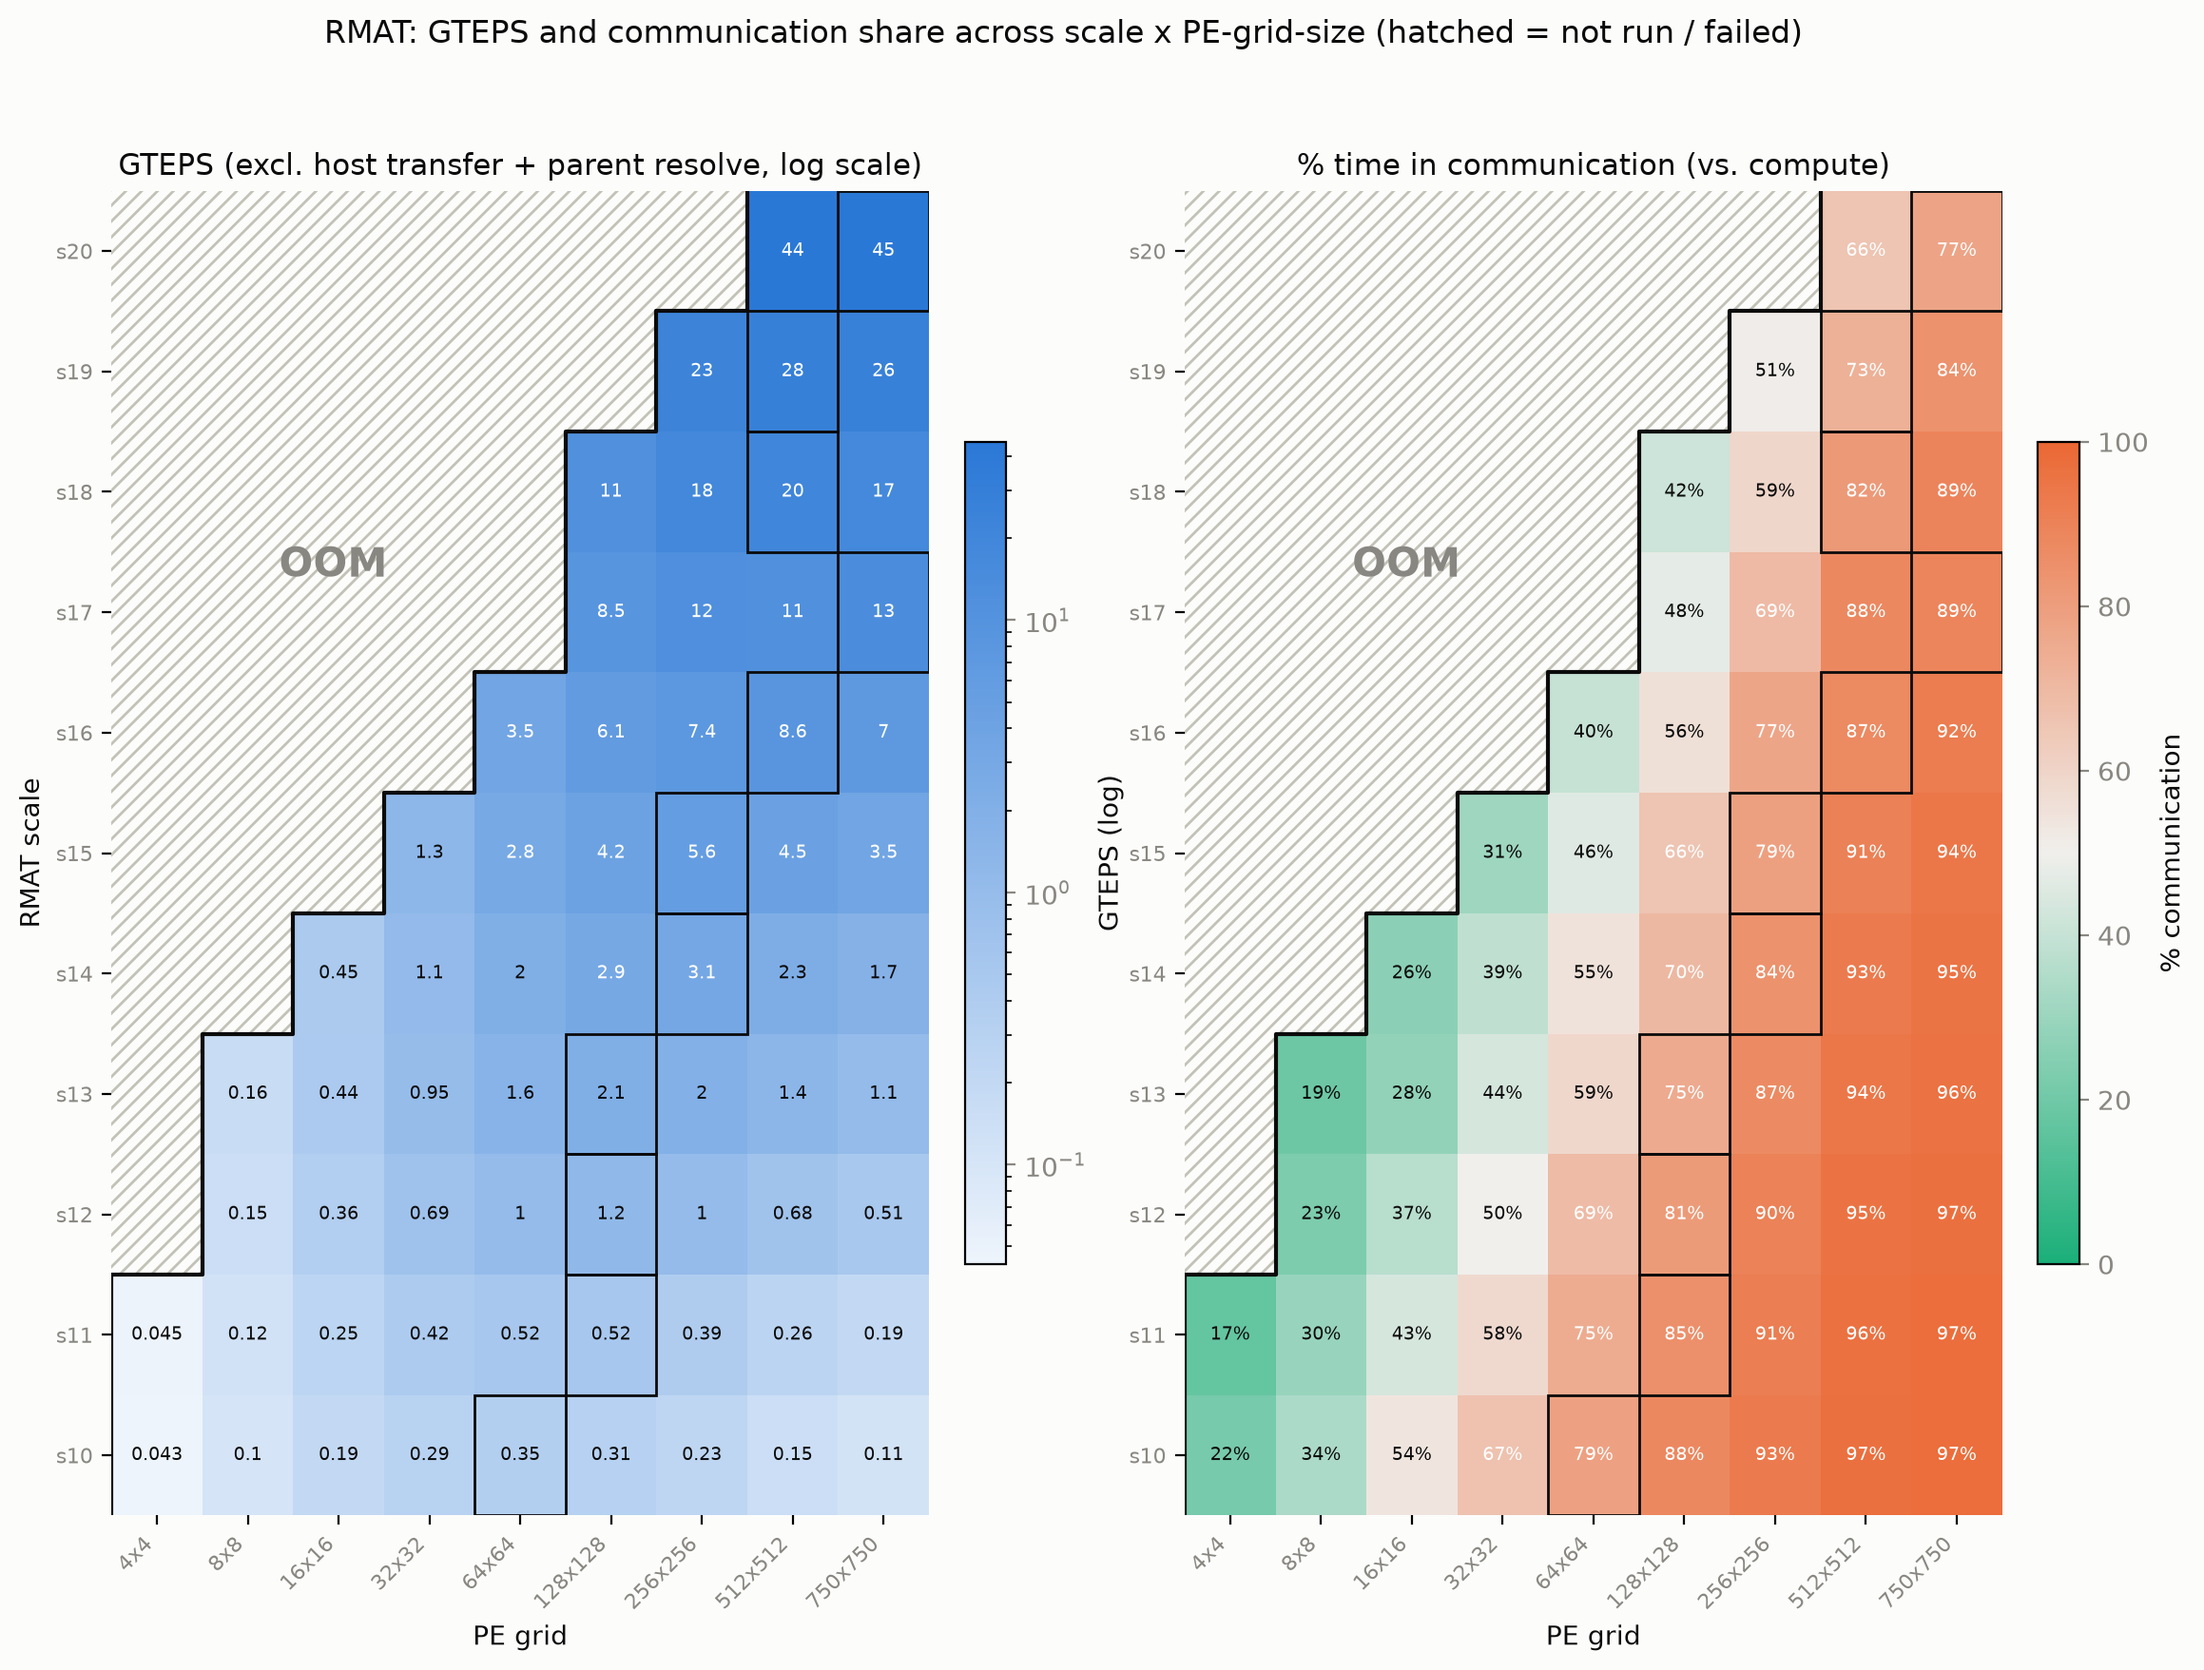
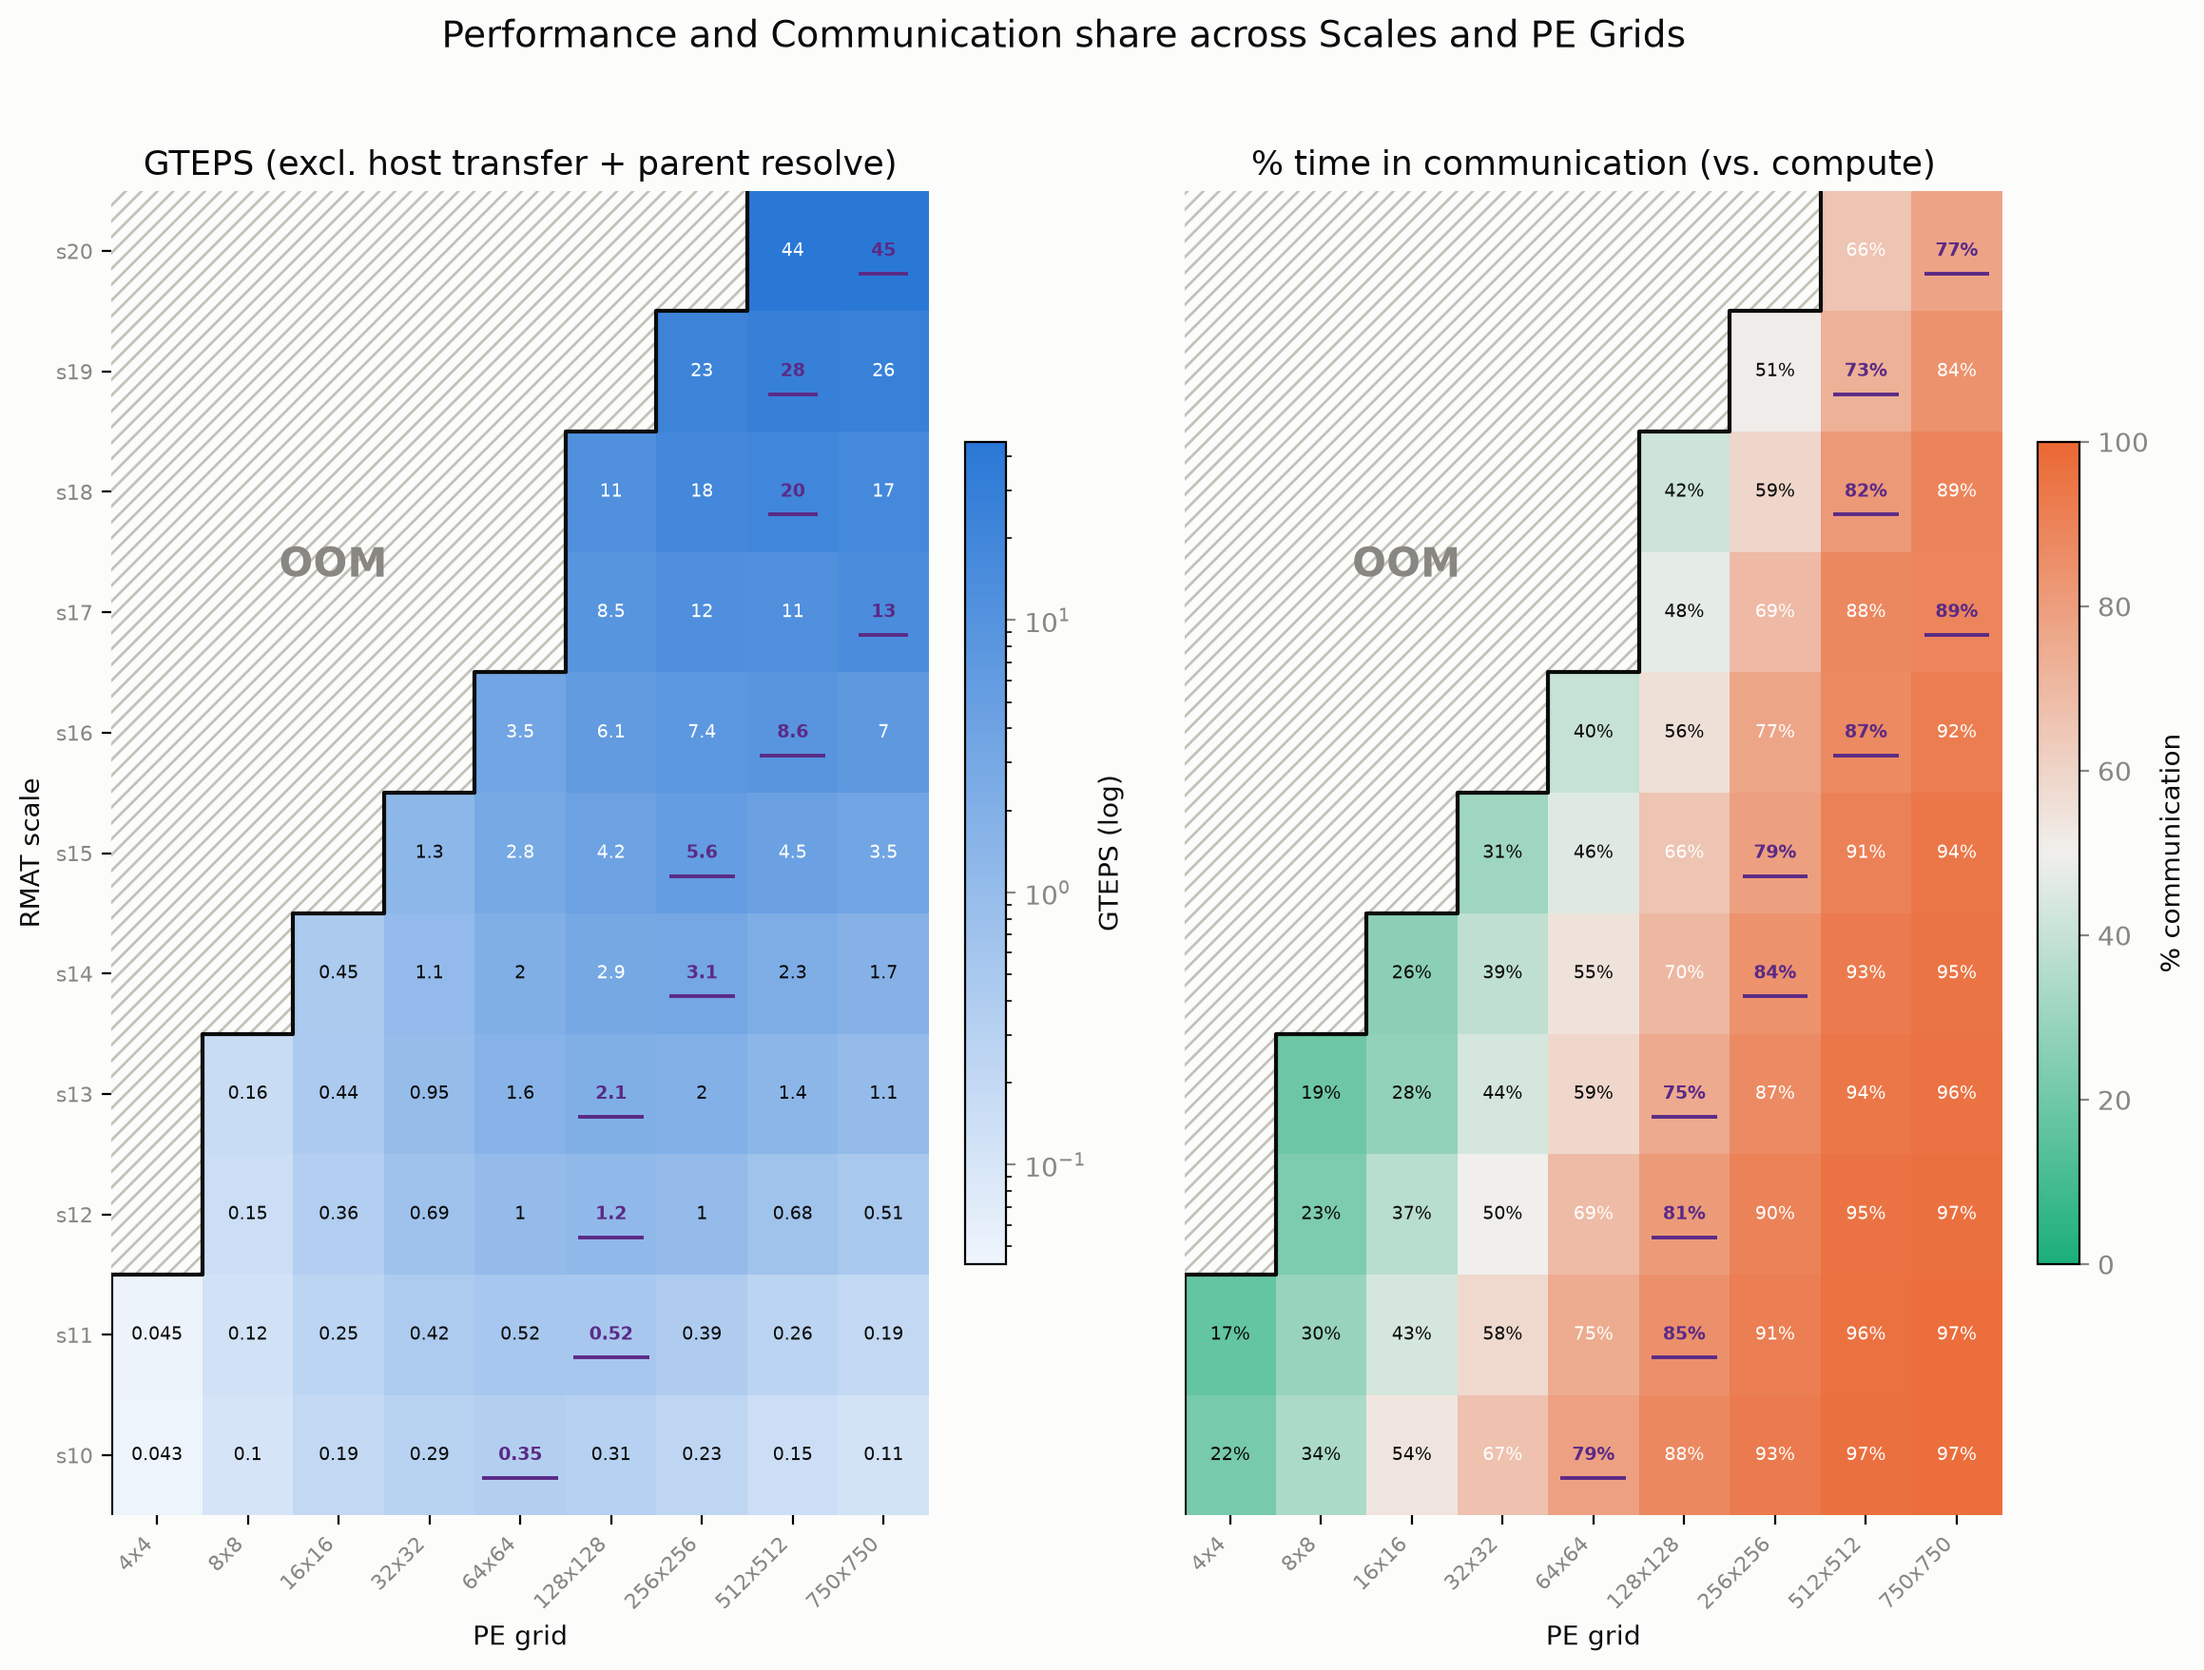
[polish] restyle best-per-row callout and titles on the grid-scale heatmap
Replace the thin box outline marking each row's best-GTEPS cell with bold,
underlined text in a single dark violet -- distinct from every hue already
used across both panels (blue, orange, aqua, gray) and legible against both
the lightest and darkest cells without needing an outline/stroke effect
(tried a red+white-stroke combo and three other hues first; violet was the
only one that didn't collide with a panel's own colormap or read as an
alarm color).

Also: drop the redundant "log scale" qualifier from the GTEPS panel title
(the colorbar's own "GTEPS (log)" label already says so), remove the right
panel's y-axis ticks/labels (duplicate of the left panel's RMAT-scale rows),
retitle the figure, and enlarge both the figure and panel titles.

Fixed a variable-shadowing bug introduced while wiring up the callout: the
per-cell loop's `label` was overwriting the outer per-panel `label` used by
ax.set_title, silently replacing both panel titles with the last cell's
formatted value.

diff --git a/spmv-hypersparse/bfs/bool_diag_spmv/plots/plot_grid_scale_heatmap.py b/spmv-hypersparse/bfs/bool_diag_spmv/plots/plot_grid_scale_heatmap.py
@@ -39,6 +39,12 @@ BLUE = "#2a78d6"  # same accent used for "RMAT" throughout this repo's plots
 ORANGE = "#eb6834"  # communication-bound pole of the comm/compute diverging panel
 AQUA = "#1baf7a"  # compute-bound pole of the comm/compute diverging panel
 NEUTRAL_MID = "#f0efec"  # this repo's documented diverging-pair midpoint
+# best-per-row cell callout -- a single dark violet, distinct from every hue
+# used in either panel's own colormap (blue, orange, aqua, gray). Dark enough
+# to stay legible against both the darkest cells (base BLUE/ORANGE) and the
+# lightest ones, so it doesn't need to switch shade per cell like the
+# ordinary (non-highlighted) cell text below does.
+BEST_HIGHLIGHT = "#5b2a86"
 
 RMAT_RE = re.compile(r"^rmat_s(\d+)_e16\.balanced(\d+)x(\d+)\.mtx$")
 
@@ -220,7 +226,7 @@ def main():
       # (matrix-fill function, label, cmap, vmin, vmax, cell text formatter,
       #  colorbar label, log-scale color+values)
       (gteps_excl_parent_resolve,
-       "GTEPS (excl. host transfer + parent resolve, log scale)", gteps_cmap, None, None,
+       "GTEPS (excl. host transfer + parent resolve)", gteps_cmap, None, None,
        lambda v, _vmax: f"{v:.2g}", "GTEPS (log)", True),
       (pct_communication,
        "% time in communication (vs. compute)", comm_cmap, 0, 100,
@@ -259,16 +265,29 @@ def main():
       im = ax.imshow(masked, cmap=cmap, vmin=vmin, vmax=panel_vmax, aspect="auto", origin="lower")
 
     # Hatch every missing cell so "not run / failed" is never confused with
-    # a real, low value.
+    # a real, low value. The best-GTEPS PE grid for each RMAT scale (picked
+    # once from the GTEPS panel, see best_j_per_row above) is called out on
+    # BOTH panels as bold, underlined text in the violet BEST_HIGHLIGHT
+    # shades, so it reads at a glance instead of requiring the reader to
+    # spot a thin box outline.
     for i in range(len(scales)):
       for j in range(len(grids)):
         if np.isnan(grid_mat[i, j]):
           ax.add_patch(plt.Rectangle((j - 0.5, i - 0.5), 1, 1, fill=False,
                                       hatch="////", edgecolor=BASELINE, linewidth=0))
+          continue
+        is_best = best_j_per_row[i] == j
+        cell_label = fmt(grid_mat[i, j], panel_vmax)
+        if is_best:
+          color = BEST_HIGHLIGHT
         else:
-          ax.text(j, i, fmt(grid_mat[i, j], panel_vmax), ha="center", va="center",
-                   fontsize=7,
-                   color=TEXT_PRIMARY if contrast_fn(grid_mat[i, j]) < 0.6 else "white")
+          color = "white" if contrast_fn(grid_mat[i, j]) >= 0.6 else TEXT_PRIMARY
+        ax.text(j, i, cell_label, ha="center", va="center", fontsize=7,
+                fontweight="bold" if is_best else "normal", color=color, zorder=7)
+        if is_best:
+          half_width = min(0.42, 0.09 + 0.09 * len(cell_label))
+          ax.plot([j - half_width, j + half_width], [i - 0.19, i - 0.19],
+                  color=color, linewidth=1.4, solid_capstyle="butt", zorder=7)
 
     # Dark staircase border between the run region and the never-run (OOM)
     # region -- every missing cell here is a small-grid/large-scale
@@ -298,21 +317,18 @@ def main():
       ax.text(nan_j.mean(), nan_i.mean(), "OOM", ha="center", va="center",
               fontsize=15, fontweight="bold", color=TEXT_MUTED, zorder=4)
 
-    # Outline each row's best-GTEPS cell (the PE grid size that gets the most
-    # GTEPS at that RMAT scale) on BOTH panels, so the % communication panel
-    # shows what that same choice costs in communication share.
-    for i, j_best in enumerate(best_j_per_row):
-      if j_best is not None:
-        ax.add_patch(plt.Rectangle((j_best - 0.5, i - 0.5), 1, 1, fill=False,
-                                    edgecolor=TEXT_PRIMARY, linewidth=1.0, zorder=5))
-
     ax.set_xticks(range(len(grids)))
     ax.set_xticklabels([f"{g}x{g}" for g in grids], rotation=45, ha="right", fontsize=8,
                         color=TEXT_MUTED)
     ax.set_yticks(range(len(scales)))
-    ax.set_yticklabels([f"s{s}" for s in scales], fontsize=8, color=TEXT_MUTED)
+    if ax is axes[0]:
+      ax.set_yticklabels([f"s{s}" for s in scales], fontsize=8, color=TEXT_MUTED)
+    else:
+      # Same RMAT-scale rows as the left panel (shared y-axis convention) --
+      # the tick labels (and the ticks themselves) would just duplicate it.
+      ax.tick_params(left=False, labelleft=False)
     ax.set_xlabel("PE grid", color=TEXT_PRIMARY)
-    ax.set_title(label, color=TEXT_PRIMARY, fontsize=11)
+    ax.set_title(label, color=TEXT_PRIMARY, fontsize=13)
     ax.set_facecolor(SURFACE)
     for spine in ax.spines.values():
       spine.set_visible(False)
@@ -323,9 +339,8 @@ def main():
 
   axes[0].set_ylabel("RMAT scale", color=TEXT_PRIMARY)
 
-  fig.suptitle("RMAT: GTEPS and communication share across scale x PE-grid-size "
-               "(hatched = not run / failed)",
-               color=TEXT_PRIMARY, fontsize=12)
+  fig.suptitle("Performance and Communication share across Scales and PE Grids",
+               color=TEXT_PRIMARY, fontsize=14)
   fig.patch.set_facecolor(SURFACE)
 
   os.makedirs(os.path.dirname(args.out), exist_ok=True)
